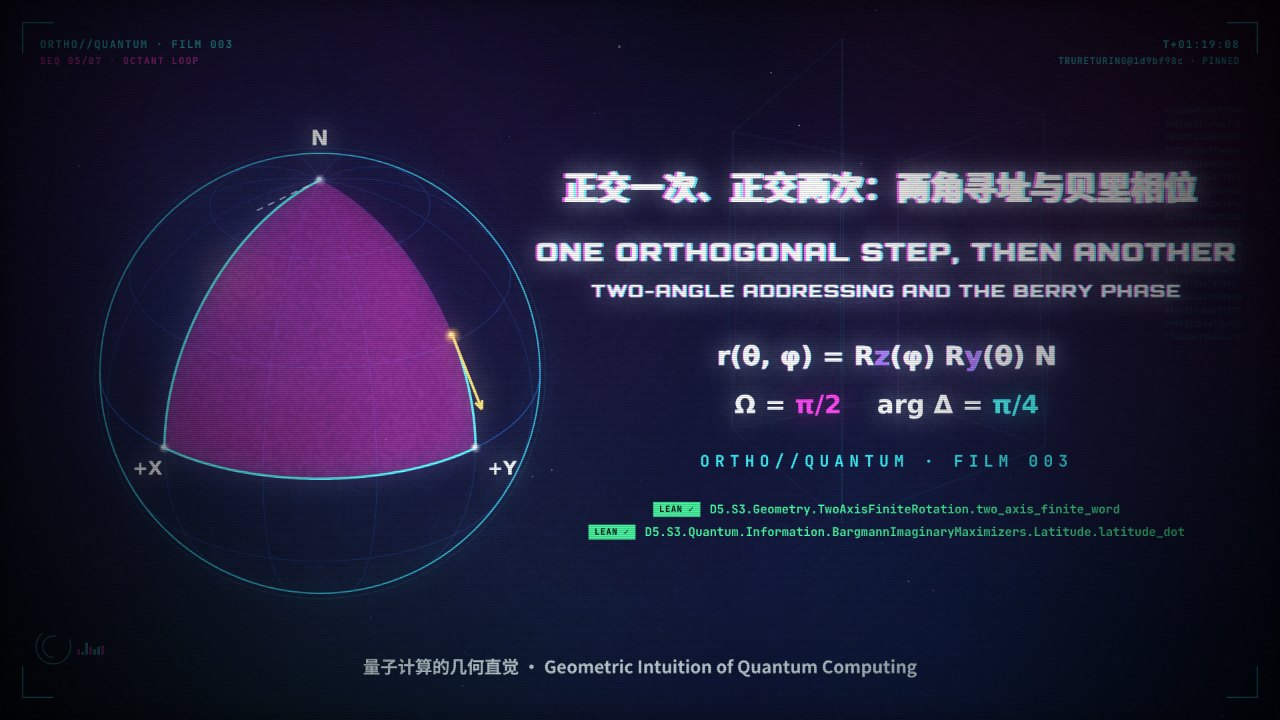
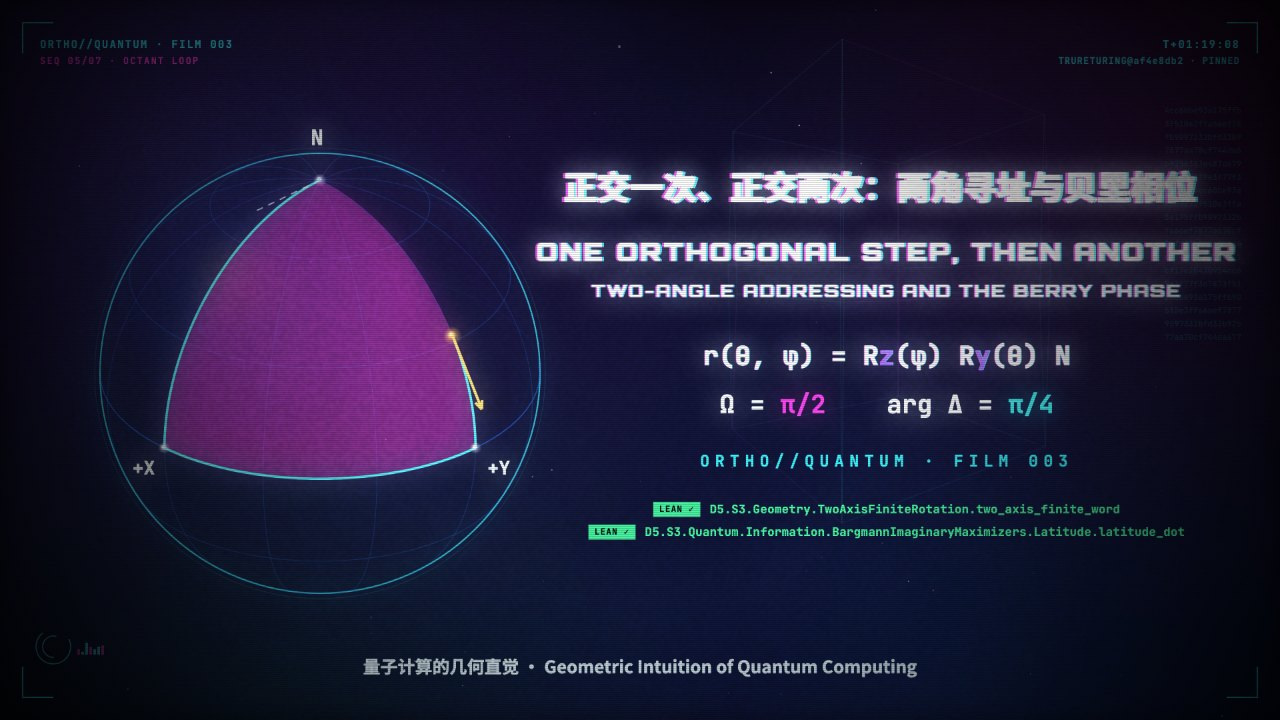
校正梯度噪声比较、卡片数量与影片封面标记

diff --git a/books/quantum-geometry/viz/parameter-shift/index.html b/books/quantum-geometry/viz/parameter-shift/index.html
@@ -4,7 +4,7 @@
 <meta charset="utf-8">
 <meta name="viewport" content="width=device-width, initial-scale=1, viewport-fit=cover">
 <title>SHIFT//RULE 参数位移</title>
-<meta name="description" content="单扇泡利旋转门下，期望值 f(θ) 是一条余弦型曲线 c + a cos θ + b sin θ。把角度左右各转 90° 取两个值，两值之差的一半正好是这一点的斜率：换一个角度、换一条这样的曲线都精确。小步长差分等于斜率乘 sin h / h，只要斜率不为零就差一点；有限次采样时它还把散粒噪声放大。Under a single Pauli rotation the expectation value f(θ) is a cosine-shaped curve c + a cos θ + b sin θ. Turn the angle a quarter turn each way and read two values: half their difference is exactly the slope there, at any angle and for any such curve. A small-step difference equals the slope times sin h / h, so it is a little off wherever the slope is not zero; with finitely many shots it also blows up the noise.">
+<meta name="description" content="单扇泡利旋转门下，期望值 f(θ) 是一条余弦型曲线 c + a cos θ + b sin θ。把角度左右各转 90° 取两个值，两值之差的一半正好是这一点的斜率：换一个角度、换一条这样的曲线都精确。小步长差分等于斜率乘 sin h / h，只要斜率不为零就差一点；有限次采样时，两组取值点各有自己的散粒噪声，小步长差分还要除以 2h：对 f = cos θ，θ = 60°、h = 6°、每个取值点发数相同时，它散布的标准差约是 ±90° 估计的 16 倍。Under a single Pauli rotation the expectation value f(θ) is a cosine-shaped curve c + a cos θ + b sin θ. Turn the angle a quarter turn each way and read two values: half their difference is exactly the slope there, at any angle and for any such curve. A small-step difference equals the slope times sin h / h, so it is a little off wherever the slope is not zero; with finitely many shots each pair of settings has its own shot noise, and the small-step difference is further divided by 2h: for f = cos θ at θ = 60° and h = 6°, with the same number of shots at each setting, its standard deviation is about 16 times that of the ±90° estimate.">
 <link rel="icon" href="../assets/favicon.svg" type="image/svg+xml">
 <link rel="preconnect" href="https://fonts.googleapis.com">
 <link rel="preconnect" href="https://fonts.gstatic.com" crossorigin>
@@ -136,7 +136,7 @@
         <li><b>左右各 90°。</b>两个青色的点在 θ ± 90°。因为 cos(φ + 90°) = −sin φ，f(θ + 90°) − c 恰好等于斜率 f′(θ) = −R sin(θ − θ₀)，f(θ − 90°) − c 是它的相反数；两值之差的一半就是斜率，常数 c 消掉。这是参数位移律（文献结果，未在本书形式化），它要求 θ 只出现在一扇对合泡利门里。</li>
         <li><b>切线。</b>虚线切线的斜率不是由两点公式算的：页面把 ρ<sub>θ</sub> = Uρ₀U*、P = (I + m·σ)/2 写成 2 × 2 复矩阵，按冻结命题的对易子公式 p′ = Re(i Tr(ρ<sub>θ</sub>(HP − PH)))、H = Y/2 算出 f′ = 2p′。量尺上青色与切线重合，是两种算法给出同一个数。</li>
         <li><b>小步长差分。</b>品红的弦连接 θ ± h 两点，斜率 [f(θ + h) − f(θ − h)]/(2h)。对这样的曲线它等于 f′(θ)·sin h / h：斜率不为零时，h = 30° 短 4.5%，h 越小越准，但从不精确；只在斜率为零的极值点，两者同为 0。</li>
-        <li><b>采样。</b>真实硬件只能测有限发，每发 ±1，均值的方差是 (1 − f²)/N。两点公式的散布是 √[(1 − f₊²) + (1 − f₋²)] / (2√N)，小步长差分要再除以 h（以弧度计）：h = 6°、N = 100、θ = 60° 时，两者理论宽度是 0.035 与 0.58。小图画出截断误差随 h 变小、噪声随 h 变大。</li>
+        <li><b>采样。</b>真实硬件只能测有限发，每发 ±1，均值的方差是 (1 − f²)/N。两点公式的散布是 √[(1 − f(θ + 90°)²) + (1 − f(θ − 90°)²)] / (2√N)；小步长差分的散布是 √[(1 − f(θ + h)²) + (1 − f(θ − h)²)] / (2h√N)（h 以弧度计）。两组取值点各取自己的 f，宽度之比随 θ 与 h 而变，并不总大于 1：f = cos θ、θ = 0° 时它是 sin h / h。f = cos θ、h = 6°、N = 100、θ = 60° 时，两者理论宽度是 0.035 与 0.58。小图画出截断误差随 h 变小、噪声随 h 变大。</li>
       </ol>
       <p class="lede refs">书中：<a href="../../zh/ch12-measurement-computation-and-gradients.html#sec-pauli-parameter-shift" target="_top">第十二章 · 泡利转角与精确参数位移</a> · <a href="../../zh/ch12-measurement-computation-and-gradients.html#prop-measurement-gradient-flow" target="_top">投影测量概率的对易子导数</a> · <a href="../../zh/ch12-measurement-computation-and-gradients.html#rem-parameter-shift-rule-literature" target="_top">参数位移律（文献结果）</a> · <a href="../../zh/ch12-measurement-computation-and-gradients.html#ex-cluster-shift-and-gradient" target="_top">一次传态、两次移位与一次球面下降</a></p>
     </div>
@@ -147,7 +147,7 @@
         <li><b>A quarter turn each way.</b> The two cyan points sit at θ ± 90°. Since cos(φ + 90°) = −sin φ, f(θ + 90°) − c is exactly the slope f′(θ) = −R sin(θ − θ₀) and f(θ − 90°) − c is its negative; half their difference is the slope, and the constant c drops out. This is the parameter-shift rule (a literature result, not formalized in this book); it needs θ to appear in a single involutory Pauli gate.</li>
         <li><b>The tangent.</b> The slope of the dashed tangent does not come from the two-point formula: the page writes ρ<sub>θ</sub> = Uρ₀U* and P = (I + m·σ)/2 as 2 × 2 complex matrices and evaluates the commutator formula of the frozen proposition, p′ = Re(i Tr(ρ<sub>θ</sub>(HP − PH))) with H = Y/2, to get f′ = 2p′. On the gauge the cyan mark sits on the tangent's line: two computations give the same number.</li>
         <li><b>The small step.</b> The magenta chord joins the points at θ ± h; its slope is [f(θ + h) − f(θ − h)]/(2h). For such a curve this equals f′(θ)·sin h / h: where the slope is not zero it is 4.5% short at h = 30°, better as h shrinks, never exact; only at the extrema, where the slope is zero, are both 0.</li>
-        <li><b>Shots.</b> Hardware only takes finitely many shots, each ±1, and the variance of their mean is (1 − f²)/N. The two-point formula scatters by √[(1 − f₊²) + (1 − f₋²)] / (2√N), and the small-step difference is further divided by h (in radians): at h = 6°, N = 100 and θ = 60° the predicted widths are 0.035 and 0.58. The small plot shows the truncation error falling and the noise rising as h shrinks.</li>
+        <li><b>Shots.</b> Hardware only takes finitely many shots, each ±1, and the variance of their mean is (1 − f²)/N. The two-point formula scatters by √[(1 − f(θ + 90°)²) + (1 − f(θ − 90°)²)] / (2√N); the small-step difference scatters by √[(1 − f(θ + h)²) + (1 − f(θ − h)²)] / (2h√N) (h in radians). Each pair takes f at its own settings, so the ratio of widths depends on θ and h and is not always above 1: for f = cos θ at θ = 0° it is sin h / h. For f = cos θ at h = 6°, N = 100 and θ = 60° the predicted widths are 0.035 and 0.58. The small plot shows the truncation error falling and the noise rising as h shrinks.</li>
       </ol>
       <p class="lede refs">In the book: <a href="../../en/ch12-measurement-computation-and-gradients.html#sec-pauli-parameter-shift" target="_top">Chapter 12 · Pauli angles and exact parameter shift</a> · <a href="../../en/ch12-measurement-computation-and-gradients.html#prop-measurement-gradient-flow" target="_top">the commutator derivative of a projection probability</a> · <a href="../../en/ch12-measurement-computation-and-gradients.html#rem-parameter-shift-rule-literature" target="_top">the parameter-shift rule (literature)</a> · <a href="../../en/ch12-measurement-computation-and-gradients.html#ex-cluster-shift-and-gradient" target="_top">one teleportation, two shifts and one spherical descent</a></p>
     </div>

diff --git a/books/quantum-geometry/viz/parameter-shift/main.js b/books/quantum-geometry/viz/parameter-shift/main.js
@@ -296,6 +296,20 @@
     curve: [['cy', '期望值 f；θ ± 90° 两个取值点', 'expectation f; the two settings θ ± 90°'], ['dm', '切线（对易子公式）', 'tangent (commutator formula)'], ['mg', '小步长的弦', 'small-step chord'], ['am', '当前角度 θ', 'current angle θ']],
     shots: [['cy', '±90° 两值差的一半，每次试验一点', 'half the ±90° difference, one dot per trial'], ['mg', '小步长差分，每次试验一点', 'small-step difference, one dot per trial'], ['dm', '切线斜率', 'tangent slope'], ['am', '当前角度 θ', 'current angle θ']]
   };
+  /** The shots note: each pair of settings has its own shot noise, (1 − f²)/N at each of its own two angles. A pair is
+      "without noise" only when its computed variance is exactly 0 (f is ±1 in double precision, so every simulated shot
+      is the same); a positive width too small for four decimals is still a width, and the ratio is then finite. */
+  const wid = (x) => (x > 0 && x < 5e-5 ? '< 0.0001' : fix(x, 4));
+  function noiseNote(sh, hr, noShift, noFd) {
+    if (noShift && noFd) return L('四个取值点算出的 f 在双精度下都是 ±1，模拟的每一发结果都相同：两种估计的理论宽度都是 0，宽度之比没有定义。', 'At all four settings the computed f is ±1 in double precision, so every simulated shot gives the same result: both estimates have predicted width 0 and the ratio of widths is undefined.');
+    if (noShift) return L(`θ ± 90° 两点算出的 f 在双精度下都是 ±1，模拟的每一发结果都相同，两值之差的一半理论宽度是 0；小步长差分的理论宽度是 ${wid(sh.sdFd)}。除数为 0，宽度之比没有定义。`, `At θ ± 90° the computed f is ±1 in double precision, so every simulated shot gives the same result and half their difference has predicted width 0; the small-step difference has predicted width ${wid(sh.sdFd)}. The ratio of widths would divide by 0 and is undefined.`);
+    if (noFd) return L(`θ ± ${S.h}° 两点算出的 f 在双精度下都是 ±1，小步长差分的理论宽度是 0；两值之差的一半的理论宽度是 ${wid(sh.sdShift)}。`, `At θ ± ${S.h}° the computed f is ±1 in double precision, so the small-step difference has predicted width 0; half the ±90° difference has predicted width ${wid(sh.sdShift)}.`);
+    const r = sh.sdFd / sh.sdShift, near = Math.abs(r - 1) < 5e-4;
+    const cmp = r > 1 ? (near ? L('，略宽', ', so it is slightly wider') : L('，更宽', ', so it is wider')) : r < 1 ? (near ? L('，略窄', ', so it is slightly narrower') : L('，反而更窄', ', so it is narrower')) : '';
+    const tiny = sh.sdShift < 5e-5 ? L('（±90° 估计的宽度不是 0，只是小于 0.0001）', ' (the width of the ±90° estimate is not 0, only below 0.0001)') : '';
+    return L(`两组取值点各有自己的散粒噪声：每点均值的方差是 (1 − f²)/N，取该点的 f。小步长差分还要除以 2h = ${fix(2 * hr, 3)}；在这个 θ 与 h 下，它的理论宽度是 ±90° 估计的 ${fix(r, r < 10 ? 3 : 2)} 倍${cmp}${tiny}。`,
+      `Each pair of settings has its own shot noise: the mean at a setting has variance (1 − f²)/N, with f at that setting. The small-step difference is further divided by 2h = ${fix(2 * hr, 3)}; at this θ and h its predicted width is ${fix(r, r < 10 ? 3 : 2)} times that of the ±90° estimate${cmp}${tiny}.`);
+  }
   function drawText() {
     const th = S.theta, hr = S.h * DEG, fp = f(th + Q), fm = f(th - Q), sl = slopeByCommutator(MODELS[S.model], th), est = shiftOf(th), fd = fdOf(th, hr);
     const flat = Math.abs(sl) < 1e-9;          // at an extremum the difference is 0 too: no ratio to speak of
@@ -315,16 +329,18 @@
       pill = [L('斜率', 'SLOPE'), fix(sl, 3)];
     } else {
       const sh = shots(), n = trialsNow(), a = stats(sh.est.slice(0, n)), b = stats(sh.fd.slice(0, n));
+      // only an exactly zero computed variance means no shot noise; then the ratio would be ∞ or NaN and is not shown
+      const noShift = sh.sdShift === 0, noFd = sh.sdFd === 0;
       big = L(`${n} 次试验 · 每点 ${S.N} 发`, `${n} trials · ${S.N} shots each`);
       sub = `θ = ${fix(th / DEG, 1)}° · ${L('切线斜率', 'tangent slope')} ${fix(sl, 3)} · h = ${S.h}°`;
       keyName = L('散布宽度：±90° · 小步长', 'scatter: ±90° · small step');
       key = n >= 2 ? `${fix(a.sd, 3)} <small>· ${fix(b.sd, 3)}</small>` : '—';
-      rows = row('c', '±90°：平均', '±90°: mean', n ? fix(a.mean, 4) : '—') + row('c', '±90°：理论宽度', '±90°: predicted width', fix(sh.sdShift, 4))
-        + row('m', `±${S.h}°：平均`, `±${S.h}°: mean`, n ? fix(b.mean, 4) : '—') + row('m', `±${S.h}°：理论宽度`, `±${S.h}°: predicted width`, fix(sh.sdFd, 4))
-        + row('', '宽度之比', 'ratio of widths', fix(sh.sdFd / sh.sdShift, 1)) + row('', '量尺外的差分点', 'difference dots off the gauge', String(last.out ? last.out.above + last.out.below : 0));
+      rows = row('c', '±90°：平均', '±90°: mean', n ? fix(a.mean, 4) : '—') + row('c', '±90°：理论宽度', '±90°: predicted width', wid(sh.sdShift))
+        + row('m', `±${S.h}°：平均`, `±${S.h}°: mean`, n ? fix(b.mean, 4) : '—') + row('m', `±${S.h}°：理论宽度`, `±${S.h}°: predicted width`, wid(sh.sdFd))
+        + row('', '宽度之比', 'ratio of widths', noShift ? '—' : fix(sh.sdFd / sh.sdShift, 1)) + row('', '量尺外的差分点', 'difference dots off the gauge', String(last.out ? last.out.above + last.out.below : 0));
       aside = 'Var = (1 − f²)/N';
-      note = L(`散布来自散粒噪声；小步长差分把同样的噪声除以 2h = ${fix(2 * hr, 3)}，宽了 ${fix(sh.sdFd / sh.sdShift, 1)} 倍。`, `The scatter is shot noise; the small-step difference divides the same noise by 2h = ${fix(2 * hr, 3)} and comes out ${fix(sh.sdFd / sh.sdShift, 1)} times wider.`);
-      pill = [L('宽度比', 'RATIO'), fix(sh.sdFd / sh.sdShift, 1)];
+      note = noiseNote(sh, hr, noShift, noFd);
+      pill = [L('宽度比', 'RATIO'), noShift ? '—' : fix(sh.sdFd / sh.sdShift, 1)];
     }
     $('hudBig').innerHTML = big; $('hudSub').innerHTML = sub;
     $('ro').innerHTML = `<div class="key"><dt>${keyName}</dt><dd><b>${key}</b></dd></div>${rows}`;

diff --git a/docs/project/CONTENT-ACCURACY.md b/docs/project/CONTENT-ACCURACY.md
@@ -1304,3 +1304,18 @@ C5/C6 留给现有 PR119 shared optimum/sample/mincut owner，未重复修改正
 输入 `3d9619fe82304572b1bfc976b0ddd8b57796c754` 的 1920 条显式追踪源均已读取核对；pin `a767dce5d7b4a01bd003f8722405c672f4eaaafa/dev`、479 声明、SUMMARY44、模板0.7.0、academic/A4 保持。仅修正 bloch-noise 强度端点的信道分类及抽屉前提、speed-limit-zeno 条件总返回时间、中文双副本证书归属，以及 SWAP 解读中慢过程的必要性措辞。当前两套浏览器检查普通／慢帧共622/622通过，原生产器被6项端点回归拒绝；源码检查0错误／8条既有影片警告，当前双语HTML及局部像素已核对，28张既有静态图保留原字节。窄卡标签拥挤／截字及北极标签聚集仍记录为限制，不以通过测试关闭。详见[四项修订及证据边界](CONTENT-ACCURACY-FOUR-FACTS-20261113.md)。
 
 本限定 assignment 总1／已用1／剩余0，包含调用方仍须组织的 mandatory INITIAL R1；最终整书输出／采纳保留1未使用。旧额度、历史覆盖与完整单元未审状态不变，无新增整书批准。仅交接未暂存补丁；候选对应、PR／push、独立复审、CI／合入／Pages及最终原生／EPUB／音视频验收继续由调用方负责。
+
+
+## 2026-11-13：当前第 9–12 章三项有界修订（待首次独立审查）
+
+本批输入为 `29c500a1c8fcefb8f5d839595253b349634ea2c9`（tree `7676a62466124d5f6bb83cc475593b67840c55ab`），出版依据为 `af4e8db2907be5b6ce1601b9dc54aa3e606c760d/dev`、480 条声明。输入 1967 个受跟踪路径逐项核对一致。旧 `0b1630f1` 上第 9–12 章双语完整审读保留历史输入归属；当前八份正文均已变化或新增媒体消费者，只复用已对应的三项问题及相关依赖证据，不能继承当前四章批准，更不构成整本 44 单元批准。
+
+本批只修正三项已确认问题：参数位移说明区分两组取值点各自的散粒噪声和实际标准差之比，保留正确方差公式、驻点条件及固定余弦例；脉冲实验索引的双语卡片数由八改为七；影片 003 海报按当前出版依据更新可见戳记，保留历史 `subject_commit` 与八分球面、面积和相位的正确内容。两项共用 Berry 缺陷仍确认待修且不重复立项：赤道边界加中点后面积由 2π 变 0；删角点产生对跖边/零 Bargmann 积却仍显示相位。本批未修改这些生产器、卡片或数学内容。
+
+本地校对指南复用已有的定量控件域规则，仅在既有审查协议补充可见版本戳的实际图片及导出消费者核对，区分当前出版依据与历史制作记录；不建立问题案例表或新增工具。
+
+实际验证：最终参数位移浏览器套件普通与慢帧模式各 **146/146**；新套件对原输入出现预期的 15 项失败，覆盖两项普通反例、固定例、两种模型、零宽度与近零正宽度。余弦模型 θ=0° 时，h=6° 的标准差比为 0.9981733，h=90° 为 2/π；θ=60°、h=6° 的 16.4795 仅归余弦模型，倾斜模型同控件为 6.589。数值方差公式未改，双精度算得零与微小正宽度分别说明。影片海报及所选静帧为 0 FILM_ERRORS。当前双语 HTML 与跳过整片渲染的 site 构建成功；实际书页、实验室与索引已查看双语桌面/手机及书页深浅主题，实验室保持共享夜间主题。静帧在同环境下输入/补丁重绘字节一致，已入库正确静帧保留；本机重绘与入库图的环境字体差异未当作内容变更。最终 check 为 **0 错误、9 条警告**：8 条历史影片 subject_commit 警告及 prelude-parts 未引用图警告；不宣称零警告。两份改动的本地 skill 均通过 quick_validate，语义审查仍待首次独立审查。
+
+EPUB、EPUBCheck 与 PDF 阅读尺度子集未完成：本次可用的命名系统解释器均缺 typst 模块，PATH 中亦无 typst/epubcheck，未安装依赖或使用其他工作区运行时。仅核对了新海报在站点与 PDF/EPUB 暂存中的字节对应，不能代替这些导出验收。海报使用现有字体回退与暂定时间轴；原生 Books/iOS、当前 CI、完整 MP4 和音频未验收。媒体收尾另披露两项执行边界偏差：部分构建临时文件使用系统临时目录，以及对禁用工作区运行时的存在性查询（未使用该运行时）；保留记录，不作全程目录边界符合的声明。
+
+本批 TOTAL 1 / USED 1 / REMAINING 0，包含本次修复与实际检查；最终整书导出保留额度未使用，旧额度不重置。补丁保持未提交；首次三席独立审查、缺失导出验证、最终候选对应、Git/PR/CI、合入与 Pages 由调用方继续办理。证据根为 `/tmp/qg-current-ch09-ch12-repair-20261113/`，最终源清单覆盖全部 1967 路径及每个改动 SHA-256；本批不作当前四章或整书完成结论。

diff --git a/books/quantum-geometry/en/ch12-measurement-computation-and-gradients.md b/books/quantum-geometry/en/ch12-measurement-computation-and-gradients.md
@@ -117,7 +117,7 @@ $$
 Geometrically, instead of nudging the sphere by a tiny angle $\delta\theta \ll 1$, the observer evaluates the expectation value at two **orthogonal $90^\circ$ shifts** on the sphere. Keep the boundary explicit: [@prop-measurement-gradient-flow] certifies the infinitesimal commutator derivative and its realness, whereas the finite $\pm\pi/2$ shift rule relies additionally on the single-gate involutory Pauli frequency expansion ([@rem-mbqc-gradients-literature]).
 :::
 
-Once the two settings sit only a small step $\pm h$ apart instead of $90^\circ$, the difference is no longer exact where the slope is nonzero: for $f = \cos\theta$, the chord through $\theta \pm h$ has $\sin h / h$ times the slope of the tangent, about $4.5\%$ short in magnitude at $h = 30^\circ$, while at stationary points both are zero; making $h$ smaller shrinks this gap like $h^2$, but divides the same shot noise by a smaller $2h$ (the comparison at the start of this chapter).
+Once the two settings sit only a small step $\pm h$ apart instead of $90^\circ$, the difference is no longer exact where the slope is nonzero: for $f = \cos\theta$, the chord through $\theta \pm h$ has $\sin h / h$ times the slope of the tangent, about $4.5\%$ short in magnitude at $h = 30^\circ$, while at stationary points both are zero; making $h$ smaller shrinks this gap like $h^2$, but divides the shot noise by a smaller $2h$ (the comparison at the start of this chapter).
 
 ::: {.viz src="parameter-shift" preset="step" height="500"}
 **A small-step difference always falls a little short.** The same $f = \cos\theta$, with the amber point at $\theta = 60^\circ$; the magenta chord through the points $\pm 30^\circ$ away is flatter than the dashed tangent, and on the gauge the magenta bar is $4.5\%$ shorter than the tangent ($\sin h / h = 0.955$), while the cyan bar (half the difference a quarter turn each way) sits on the tangent.

diff --git a/skills/local-content-accuracy/references/review-protocol.md b/skills/local-content-accuracy/references/review-protocol.md
@@ -25,6 +25,8 @@ Maintain one row per SUMMARY unit. A row can say `pending`, `read-only review`, 
 
 On recovery or integration, record the prior evidence candidate, current input HEAD and changed scope. Compare the dependencies relevant to each reused conclusion: text/environment bytes, referenced source and pin, media/captions, and output tools/assets. State which evidence survives and why, which changed claims need fresh review, and which outputs need rebuilding. Do not treat changed tooling as a new content audit of every chapter, or unchanged text as approval of new media. For an uncommitted handoff, identify the input HEAD and changed file digests; a later committed hash needs the lifecycle owner’s correspondence check.
 
+For media with a visible version or pin stamp, compare the committed image pixels and their existing export consumers with the declared publication basis; a current source preview does not establish that the published poster or still is current. Keep explicitly historical production provenance distinct from the current publication basis.
+
 For an upstream table, list or display reflow, record how each affected claim’s old row/field corresponds to its current stable location and labelled fields in both languages, including assumptions, qualifiers, conclusions and source/GID/attribution bindings. Carry the already-confirmed minimal corrections into those fields where their justification still holds, retaining author wording and the upstream presentation. Established semantic correspondence can justify reuse of the relevant evidence despite changed bytes; line growth or a new layout alone adds no claims or audit credit. A changed or missing hypothesis, qualifier, conclusion or source binding beyond those corrections needs fresh review of that claim. Correspondence alone does not establish content accuracy or approve the surrounding material.
 
 ## Three review seats

diff --git a/books/quantum-geometry/zh/ch12-measurement-computation-and-gradients.md b/books/quantum-geometry/zh/ch12-measurement-computation-and-gradients.md
@@ -141,7 +141,7 @@ $$
 （职责边界：[@prop-measurement-gradient-flow] 经 Lean 内核验证的是无穷小对易子导数公式与纯实性；上述两采样点有限位移恒等式额外依赖“参数 $\theta$ 仅在单扇对合泡利门 $e^{-i\theta P_{\mathrm{gen}}/2}$ 中出现一次”的二能级频率结构，作为手算与文献结果列入 [@ex-cluster-shift-and-gradient] 与 [@rem-mbqc-gradients-literature]。）
 :::
 
-两个取值点一旦不隔 $90^\circ$ 而只隔小步长 $\pm h$，差分在斜率非零处就不再精确：对 $f = \cos\theta$，$\theta \pm h$ 两点连成的弦，斜率是切线斜率的 $\sin h / h$ 倍，$h = 30^\circ$ 时幅度短约 $4.5\%$，驻点处则两者同为零；$h$ 取小，这一截偏差按 $h^2$ 缩小，同样的散粒噪声却被 $2h$ 除得更大（本章开头的对照）。
+两个取值点一旦不隔 $90^\circ$ 而只隔小步长 $\pm h$，差分在斜率非零处就不再精确：对 $f = \cos\theta$，$\theta \pm h$ 两点连成的弦，斜率是切线斜率的 $\sin h / h$ 倍，$h = 30^\circ$ 时幅度短约 $4.5\%$，驻点处则两者同为零；$h$ 取小，这一截偏差按 $h^2$ 缩小，散粒噪声却被 $2h$ 除得更大（本章开头的对照）。
 
 ::: {.viz src="parameter-shift" preset="step" height="500"}
 **小步长的差分总差一截。** 同一条 $f = \cos\theta$，琥珀色的点在 $\theta = 60^\circ$；$\pm 30^\circ$ 两点连成的品红的弦比虚线切线缓，量尺上品红的条比切线短 $4.5\%$（$\sin h / h = 0.955$），青色的条（左右各 $90^\circ$ 两值之差的一半）停在切线上。
